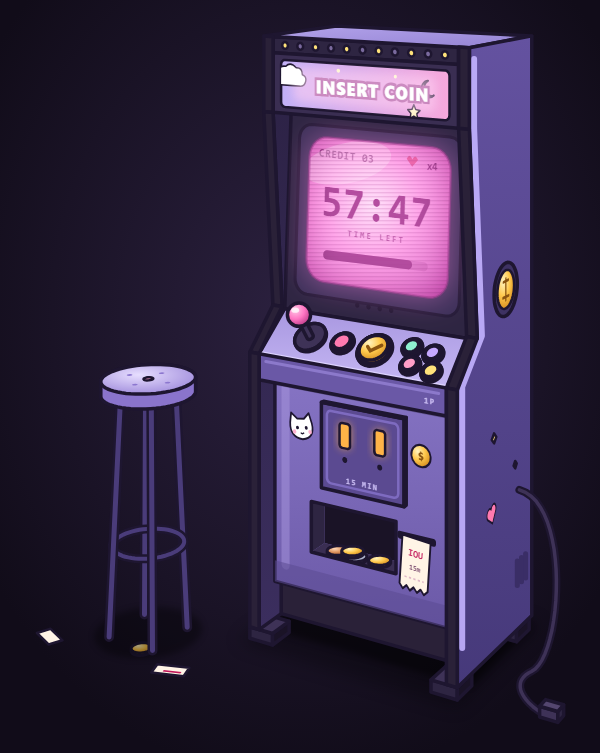
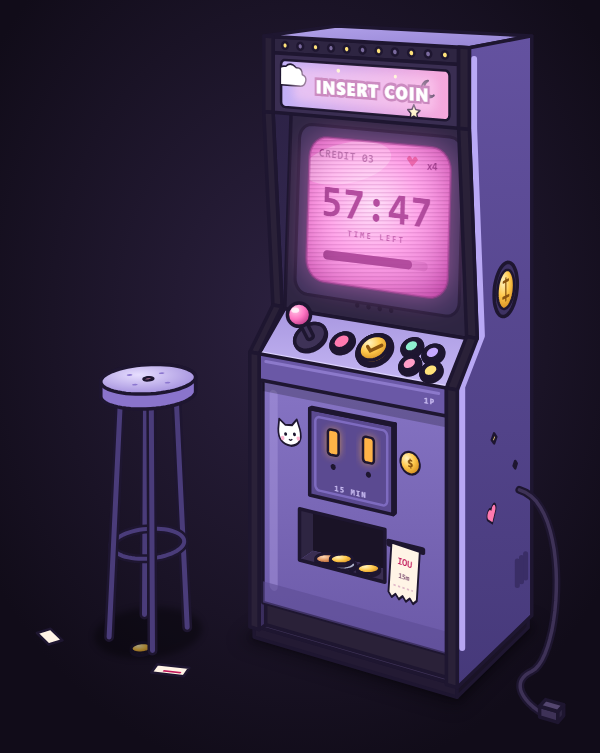
Cozy art v5.2: solid plinth base, shallow body recess (no see-through gap under the cabinet)

Changed region(s): [[0.42, 0.4887, 0.75, 0.9163], [0.81, 0.8552, 0.87, 0.8858], [0.78, 0.8858, 0.81, 0.9163]]

diff --git a/tools/art/cozy_cabinet.py b/tools/art/cozy_cabinet.py
@@ -21,15 +21,15 @@ THIN = f'stroke="{OUT}" stroke-width="2.5" stroke-linejoin="round"'
 XI, T = 130, 14                     # half inner width, side panel thickness
 XO = XI + T
 BACK = 170
-FLOOR = -14                         # levelling feet raise the cabinet
+FLOOR = -14                         # the cabinet stands on a plinth this tall
 ROOF = 724
 
 HOOD_TOP, HOOD_BOT = (0, ROOF), (0, 704)
 MARQ_BOT = (0, 630)
 SCREEN_TOP, SCREEN_BOT = (40, 624), (26, 380)
 CP_FRONT, CP_LIP_BOT = (-30, 338), (-30, 306)
-BODY_TOP, BODY_BOT = (4, 306), (4, 46)
-KICK_TOP, KICK_BOT = (18, 46), (18, 0)
+BODY_TOP, BODY_BOT = (-22, 306), (-22, 30)     # lower body sits just behind the side panels' front edge
+KICK_TOP, KICK_BOT = (-16, 30), (-16, 0)
 # Front edge of the side panels (z, y), top to bottom; also the outline of the side art.
 # Below the control panel the panels run straight down to the floor; body and kick sit recessed between them.
 EDGE = [HOOD_TOP, MARQ_BOT, (20, 384), CP_FRONT, (CP_FRONT[0], 0)]
@@ -207,18 +207,17 @@ def defs():
 
 def ground_shadow():
     foot = [CAM((x, FLOOR, z)) for x, z in ((-XO - 8, -44), (XO + 8, -44), (XO + 8, BACK + 12), (-XO - 8, BACK + 12))]
-    contact = [CAM((x, FLOOR, z)) for x, z in ((-XO, 2), (XO, 2), (XO, BACK), (-XO, BACK))]
+    contact = [CAM((x, FLOOR, z)) for x, z in ((-XO, CP_FRONT[0] + 2), (XO, CP_FRONT[0] + 2), (XO, BACK), (-XO, BACK))]
     return f'''<g id="ground-shadow">
   {path(foot, "#000", 'opacity="0.3" filter="url(#softShadow)"')}
   {path(contact, "#000", 'opacity="0.45" filter="url(#contact)"')}
 </g>'''
 
 
-def feet():
-    fills = {"front": "#2E2542", "right": "#1A1326", "left": "#231A33", "top": "#3E3257"}
-    front, fw = CP_FRONT[0], 34                     # pads sit under the side panels, flush with their front edge
-    return (f'<g id="feet">{box((XO - fw, FLOOR, BACK - 44), (fw, -FLOOR, 36), fills)}'
-            f'{box((-XO, FLOOR, front), (fw, -FLOOR, 36), fills)}{box((XO - fw, FLOOR, front), (fw, -FLOOR, 36), fills)}</g>')
+def plinth():
+    """Solid dark base under the whole cabinet, set back slightly from the panels' front edge."""
+    fills = {"front": "#231A33", "right": "#1A1326", "top": "#3E3257"}
+    return f'<g id="plinth">{box((-XO + 3, FLOOR, CP_FRONT[0] + 5), (2 * XO - 6, -FLOOR, BACK - CP_FRONT[0] - 9), fills)}</g>'
 
 
 def inner_wall():
@@ -488,7 +487,7 @@ def svg(preview_bg=True):
     parts = [defs()]
     if preview_bg:
         parts.append(f'<g id="preview-bg"><rect width="600" height="{height}" fill="url(#bgGlow)"/></g>')
-    parts += [ground_shadow(), feet(), inner_wall(), screen_face(), marquee_face(), body_face(), control_panel(),
+    parts += [ground_shadow(), plinth(), inner_wall(), screen_face(), marquee_face(), body_face(), control_panel(),
               roof_face(), side_panel(), trims(), cable(), props(), anchors()]
     return (f'<svg xmlns="http://www.w3.org/2000/svg" viewBox="0 0 600 {height}" width="600" height="{height}">\n'
             f'<!-- INSERT COIN · Cozy skin · cabinet v5 (generated by tools/art/cozy_cabinet.py). Original artwork. -->\n'
